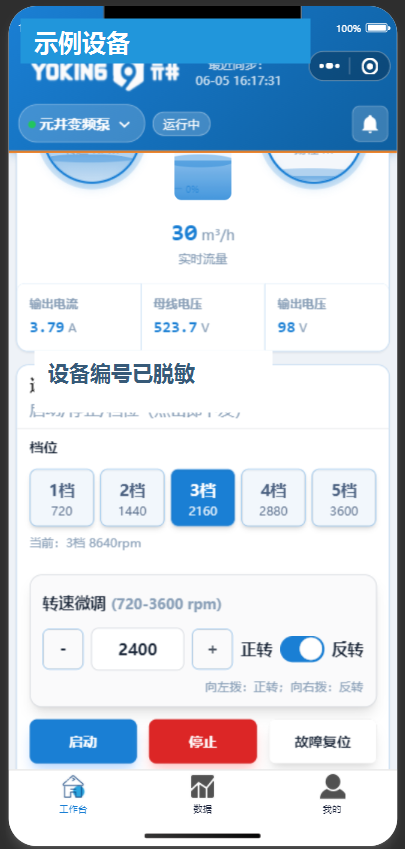
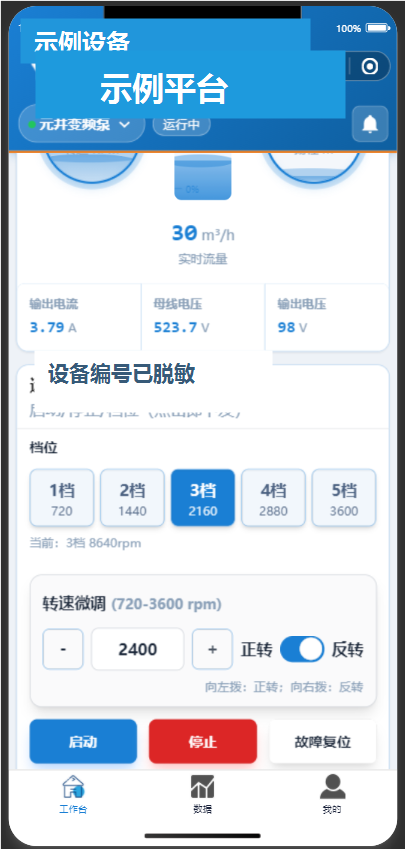
feat: add Noddy UI iteration evidence

Changed region(s): [[0.0889, 0.0612, 0.8593, 0.1531], [0.0, 0.0, 0.0296, 0.0306]]

diff --git a/src/noddyCaseStudy.ts b/src/noddyCaseStudy.ts
@@ -8,6 +8,13 @@ export interface NoddyVisual {
   title: string;
   caption: string;
   kind: "app" | "device" | "system" | "rule";
+  image?: string;
+}
+
+export interface NoddyComparisonImage {
+  title: string;
+  caption: string;
+  image: string;
 }
 
 export interface NoddyCaseStudyData {
@@ -32,6 +39,21 @@ export interface NoddyCaseStudyData {
   };
   experiences: Array<{ title: string; text: string }>;
   showcase: NoddyVisual[];
+  comparison: {
+    title: string;
+    intro: string;
+    old: {
+      title: string;
+      summary: string;
+      images: NoddyComparisonImage[];
+    };
+    current: {
+      title: string;
+      summary: string;
+      images: NoddyComparisonImage[];
+    };
+    decisions: string[];
+  };
   notes: Array<{ title: string; text: string }>;
   timeline: Array<{ label: string; text: string }>;
   reflection: {
@@ -111,14 +133,42 @@ export const noddyCaseStudy: NoddyCaseStudyData = {
     { title: "没有回应，也要有解释", text: "未连接、低电量、休眠、勿扰、时间未同步都不是错误码，而是陪伴关系里的边界说明。" }
   ],
   showcase: [
-    { title: "陪伴首页", caption: "第一眼看到的不是功能，而是 Noddy 现在怎么样。", kind: "app" },
-    { title: "设备连接与状态提示", caption: "硬件状态必须被温柔但清楚地解释。", kind: "device" },
+    { title: "陪伴首页", caption: "第一眼看到的不是功能，而是 Noddy 现在怎么样。", kind: "app", image: "/assets/case-studies/noddy/comparison/new-home.png" },
+    { title: "阶段任务", caption: "成长不是任务墙，而是陪伴关系慢慢靠近的路径。", kind: "app", image: "/assets/case-studies/noddy/comparison/new-stage-task.png" },
+    { title: "安静陪伴", caption: "陪伴不一定要说话，有时候安静待着就够了。", kind: "device", image: "/assets/case-studies/noddy/comparison/new-quiet-companion.png" },
+    { title: "成长技能 / 能力地图", caption: "能力不是教学任务，而是一起相处后慢慢点亮的经验。", kind: "app", image: "/assets/case-studies/noddy/comparison/new-growth-skills.png" },
     { title: "互动日记", caption: "每一次互动，都变成一段可以回看的相处记录。", kind: "app" },
-    { title: "性格状态", caption: "性格不是标签，而是长期相处方式留下的趋势。", kind: "system" },
-    { title: "成长技能 / 能力地图", caption: "能力不是教学任务，而是一起相处后慢慢点亮的经验。", kind: "app" },
-    { title: "安静陪伴", caption: "陪伴不一定要说话，有时候安静待着就够了。", kind: "device" },
+    { title: "性格状态", caption: "性格不是标签，而是长期相处方式留下的趋势。", kind: "system", image: "/assets/case-studies/noddy/comparison/old-personality.png" },
     { title: "情绪声音轴 / 动作规则", caption: "把“像活的”翻译成团队能执行的声音和动作规则。", kind: "rule" }
   ],
+  comparison: {
+    title: "UI 迭代对比：从功能控制感，到陪伴关系感",
+    intro: "这组新旧界面对比能很清楚地看出方向变化：旧版更像在管理一台设备，新版更像在照看一个正在成长的陪伴对象。",
+    old: {
+      title: "旧版：功能控制感",
+      summary: "阶段、设置、指令和性格参数被直接摆到前台，信息是清楚的，但体验更像功能集合。",
+      images: [
+        { title: "旧首页", caption: "成长阶段和设置入口占主导，陪伴关系还没有成为第一层信息。", image: "/assets/case-studies/noddy/comparison/old-home.png" },
+        { title: "指令弹窗", caption: "可识别指令被完整列出，更像设备说明书。", image: "/assets/case-studies/noddy/comparison/old-commands.png" },
+        { title: "性格参数", caption: "参数表达直观，但偏配置面板，情绪和关系还没有融进日常场景。", image: "/assets/case-studies/noddy/comparison/old-personality.png" }
+      ]
+    },
+    current: {
+      title: "新版：陪伴关系感",
+      summary: "首页先表达状态、亲密度和刚刚发生的互动，再把成长任务、档案与安静陪伴接成连续体验。",
+      images: [
+        { title: "新版首页", caption: "状态、陪伴天数、亲密度和互动提示成为主叙事。", image: "/assets/case-studies/noddy/comparison/new-home.png" },
+        { title: "阶段任务", caption: "成长任务被包装成靠近下一阶段的陪伴路径。", image: "/assets/case-studies/noddy/comparison/new-stage-task.png" },
+        { title: "安静陪伴", caption: "用沉浸插画表达陪伴不一定要说话。", image: "/assets/case-studies/noddy/comparison/new-quiet-companion.png" },
+        { title: "成长档案", caption: "技能、阶段和熟悉度被沉淀成可回看的关系材料。", image: "/assets/case-studies/noddy/comparison/new-growth-skills.png" }
+      ]
+    },
+    decisions: [
+      "把“设备设置”后置，把“它现在怎么样”前置。",
+      "把指令列表改成成长任务和陪伴小事，降低工具感。",
+      "把性格参数从配置项，转成长期相处后留下的状态和档案。"
+    ]
+  },
   notes: [
     { title: "从“会动的玩具”到“有回应的对象”", text: "真正需要被设计的是：它为什么这样动，它在什么状态下不应该动，用户怎么知道它不是坏了，而是在休息。" },
     { title: "从情绪文案到情绪系统", text: "情绪必须同时影响 App 状态、设备动作、声音语气、提醒边界、互动记录和性格趋势。" },

diff --git a/src/styles.css b/src/styles.css
@@ -2906,6 +2906,8 @@ button { color: inherit; }
   display: grid;
   place-items: center;
   min-height: 170px;
+  overflow: hidden;
+  border-radius: 18px;
 }
 
 .noddy-visual-card > div i {
@@ -2915,6 +2917,16 @@ button { color: inherit; }
   background: linear-gradient(145deg, #fff3dc, #ffb889 62%, #a991ff);
   box-shadow: 0 24px 44px rgba(0,0,0,.28);
   transform: rotate(-8deg);
+}
+
+.noddy-visual-card > div img {
+  width: 100%;
+  height: 245px;
+  object-fit: cover;
+  object-position: top;
+  border-radius: 18px;
+  border: 1px solid rgba(255,255,255,.14);
+  box-shadow: inset 0 1px rgba(255,255,255,.18);
 }
 
 .noddy-visual-card figcaption {
@@ -2929,6 +2941,127 @@ button { color: inherit; }
 .visual-device > div i { border-radius: 50% 50% 42% 42%; }
 .visual-system > div i { border-radius: 50%; }
 .visual-rule > div i { border-radius: 16px; background: linear-gradient(145deg, #202437, #7ee0ff); }
+
+.noddy-ui-comparison {
+  overflow: hidden;
+  background:
+    radial-gradient(circle at 20% 18%, rgba(255, 205, 166, .18), transparent 30%),
+    radial-gradient(circle at 88% 10%, rgba(153, 214, 255, .16), transparent 26%),
+    linear-gradient(145deg, rgba(30, 22, 43, .98), rgba(11, 12, 25, .98));
+}
+
+.noddy-comparison-intro {
+  max-width: 820px;
+  margin: -12px 0 28px;
+  color: rgba(255,248,241,.78);
+}
+
+.noddy-comparison-grid {
+  display: grid;
+  grid-template-columns: .9fr 1.1fr;
+  gap: 22px;
+  align-items: stretch;
+}
+
+.noddy-comparison-panel {
+  position: relative;
+  border: 1px solid rgba(255,255,255,.14);
+  border-radius: 28px;
+  padding: 20px;
+  background: linear-gradient(145deg, rgba(255,255,255,.12), rgba(255,255,255,.045));
+  box-shadow:
+    0 28px 70px rgba(0,0,0,.34),
+    inset 0 1px rgba(255,255,255,.16);
+}
+
+.noddy-comparison-panel.current {
+  border-color: rgba(255, 205, 166, .32);
+  background:
+    radial-gradient(circle at 84% 12%, rgba(255, 160, 184, .22), transparent 32%),
+    linear-gradient(145deg, rgba(255,255,255,.14), rgba(255,255,255,.05));
+}
+
+.noddy-comparison-panel header {
+  margin-bottom: 18px;
+}
+
+.noddy-comparison-panel h3 {
+  margin: 0 0 8px;
+  color: #ffe5ba;
+  font-size: clamp(24px, 2.2vw, 34px);
+}
+
+.noddy-comparison-panel p {
+  margin: 0;
+}
+
+.noddy-comparison-images {
+  display: grid;
+  grid-template-columns: repeat(2, minmax(0, 1fr));
+  gap: 14px;
+}
+
+.noddy-comparison-panel.old .noddy-comparison-images {
+  grid-template-columns: 1fr;
+}
+
+.noddy-comparison-images figure {
+  margin: 0;
+  border: 1px solid rgba(255,255,255,.12);
+  border-radius: 22px;
+  padding: 10px;
+  background: rgba(255,255,255,.07);
+  box-shadow: 0 18px 38px rgba(0,0,0,.24);
+}
+
+.noddy-comparison-images img {
+  width: 100%;
+  height: 330px;
+  object-fit: cover;
+  object-position: top;
+  border-radius: 16px;
+  display: block;
+}
+
+.noddy-comparison-panel.old .noddy-comparison-images img {
+  height: 230px;
+}
+
+.noddy-comparison-images figcaption {
+  display: grid;
+  gap: 5px;
+  margin-top: 10px;
+}
+
+.noddy-comparison-images strong {
+  color: #fff5dd;
+}
+
+.noddy-comparison-images small {
+  color: rgba(255,248,241,.62);
+}
+
+.noddy-comparison-decisions {
+  display: grid;
+  grid-template-columns: repeat(3, 1fr);
+  gap: 14px;
+  margin-top: 22px;
+}
+
+.noddy-comparison-decisions p {
+  margin: 0;
+  border: 1px solid rgba(255, 205, 166, .24);
+  border-radius: 18px;
+  padding: 16px;
+  background: rgba(255, 237, 216, .08);
+}
+
+.noddy-comparison-decisions small {
+  display: block;
+  margin-bottom: 8px;
+  color: #ffc88d;
+  font-weight: 800;
+}
 
 .noddy-note-grid {
   display: grid;
@@ -2985,7 +3118,9 @@ button { color: inherit; }
   .noddy-columns,
   .noddy-key-experience,
   .noddy-system-map,
-  .noddy-note-grid {
+  .noddy-note-grid,
+  .noddy-comparison-grid,
+  .noddy-comparison-decisions {
     grid-template-columns: 1fr;
   }
 
@@ -3010,6 +3145,17 @@ button { color: inherit; }
   .noddy-before-after p::before {
     grid-column: auto;
     justify-self: center;
+  }
+
+  .noddy-comparison-images,
+  .noddy-comparison-panel.old .noddy-comparison-images {
+    grid-template-columns: 1fr;
+  }
+
+  .noddy-comparison-images img,
+  .noddy-comparison-panel.old .noddy-comparison-images img {
+    height: auto;
+    max-height: 620px;
   }
 }
 

diff --git a/src/NoddyCaseStudyView.tsx b/src/NoddyCaseStudyView.tsx
@@ -1,6 +1,6 @@
 import { ArrowLeft, ChevronRight, ExternalLink } from "lucide-react";
 import { motion } from "framer-motion";
-import { noddyCaseStudy, type NoddyVisual } from "./noddyCaseStudy";
+import { noddyCaseStudy, type NoddyComparisonImage, type NoddyVisual } from "./noddyCaseStudy";
 
 interface NoddyCaseStudyProps {
   onBack: () => void;
@@ -133,6 +133,33 @@ export function NoddyCaseStudy({ onBack, onNavigate }: NoddyCaseStudyProps) {
         </div>
       </section>
 
+      <section className="noddy-section noddy-ui-comparison" id="noddy-ui-comparison">
+        <SectionLabel label="06A" title={data.comparison.title} />
+        <p className="noddy-comparison-intro">{data.comparison.intro}</p>
+        <div className="noddy-comparison-grid">
+          <ComparisonPanel
+            title={data.comparison.old.title}
+            summary={data.comparison.old.summary}
+            images={data.comparison.old.images}
+            tone="old"
+          />
+          <ComparisonPanel
+            title={data.comparison.current.title}
+            summary={data.comparison.current.summary}
+            images={data.comparison.current.images}
+            tone="current"
+          />
+        </div>
+        <div className="noddy-comparison-decisions">
+          {data.comparison.decisions.map((decision, index) => (
+            <p key={decision}>
+              <small>{String(index + 1).padStart(2, "0")}</small>
+              {decision}
+            </p>
+          ))}
+        </div>
+      </section>
+
       <section className="noddy-section noddy-notes" id="noddy-iterations">
         <SectionLabel label="07" title="它不是一开始就“像活的”" />
         <div className="noddy-note-grid">
@@ -228,11 +255,52 @@ function DeviceMockup({ title, caption }: { title: string; caption: string }) {
 function VisualCard({ visual }: { visual: NoddyVisual }) {
   return (
     <figure className={`noddy-visual-card visual-${visual.kind}`}>
-      <div><i /><span>{visual.kind}</span></div>
+      <div>
+        {visual.image ? (
+          <img src={visual.image} alt={`${visual.title}界面截图`} />
+        ) : (
+          <>
+            <i />
+            <span>{visual.kind}</span>
+          </>
+        )}
+      </div>
       <figcaption>
         <strong>{visual.title}</strong>
         <small>{visual.caption}</small>
       </figcaption>
     </figure>
+  );
+}
+
+function ComparisonPanel({
+  title,
+  summary,
+  images,
+  tone
+}: {
+  title: string;
+  summary: string;
+  images: NoddyComparisonImage[];
+  tone: "old" | "current";
+}) {
+  return (
+    <article className={`noddy-comparison-panel ${tone}`}>
+      <header>
+        <h3>{title}</h3>
+        <p>{summary}</p>
+      </header>
+      <div className="noddy-comparison-images">
+        {images.map((item) => (
+          <figure key={item.image}>
+            <img src={item.image} alt={`${title}：${item.title}`} />
+            <figcaption>
+              <strong>{item.title}</strong>
+              <small>{item.caption}</small>
+            </figcaption>
+          </figure>
+        ))}
+      </div>
+    </article>
   );
 }

diff --git a/src/NoddyCaseStudy.test.tsx b/src/NoddyCaseStudy.test.tsx
@@ -11,11 +11,20 @@ describe("NoddyCaseStudy", () => {
     expect(screen.getByText("真正的陪伴感，不是它一直说话，而是它在合适的时候回应你。")).toBeInTheDocument();
     expect(screen.getByRole("heading", { name: "我为什么会做它？" })).toBeInTheDocument();
     expect(screen.getByRole("heading", { name: "一次陪伴，不是一句回复，而是一条完整的状态链路" })).toBeInTheDocument();
+    expect(screen.getByRole("heading", { name: "UI 迭代对比：从功能控制感，到陪伴关系感" })).toBeInTheDocument();
     expect(screen.getByRole("heading", { name: "它不是一开始就“像活的”" })).toBeInTheDocument();
     expect(screen.getByRole("heading", { name: "这个项目让我重新理解了“陪伴感”" })).toBeInTheDocument();
     expect(screen.getByRole("img", { name: "Noddy 陪伴首页原型图（已脱敏）" })).toHaveAttribute(
       "src",
       "/assets/case-studies/noddy/home-masked.png"
+    );
+    expect(screen.getByRole("img", { name: "旧版：功能控制感：旧首页" })).toHaveAttribute(
+      "src",
+      "/assets/case-studies/noddy/comparison/old-home.png"
+    );
+    expect(screen.getByRole("img", { name: "新版：陪伴关系感：新版首页" })).toHaveAttribute(
+      "src",
+      "/assets/case-studies/noddy/comparison/new-home.png"
     );
   });
 
